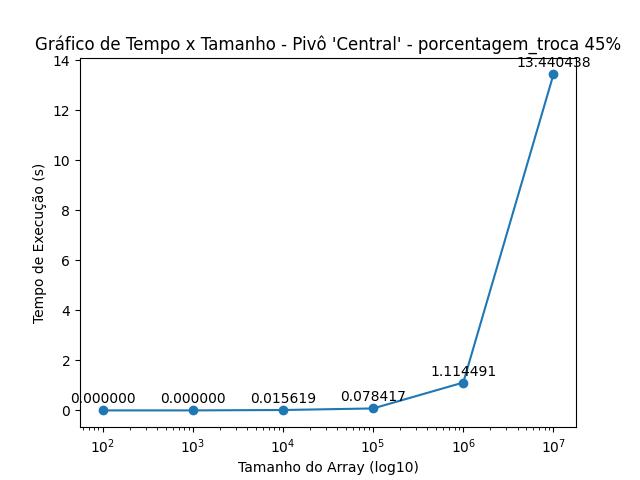
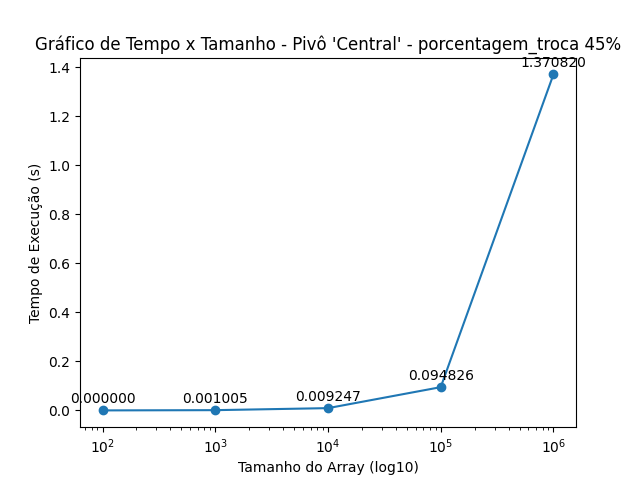
somente o mediana que esta ruim

diff --git a/QuickSort.py b/QuickSort.py
@@ -9,7 +9,10 @@ class QuickSort:
     def ordenar(self, array, metodo_pivo):
         tempo_inicio = time.time()
 
-        self.quick_sort(array, 0, len(array) - 1, metodo_pivo)
+        if(metodo_pivo == 6):
+            self.quick_sort_acha_pivo(array, 0, len(array) - 1)
+        else:
+            self.quick_sort(array, 0, len(array) - 1, metodo_pivo)
 
         tempo_fim = time.time()
         self.time = tempo_fim - tempo_inicio
@@ -37,11 +40,29 @@ class QuickSort:
 
         # 5 – Pivô mediana
         elif metodo_pivo == 5:
-            return self.median_of_medians(A, (inicio + fim) // 2)
+            p  = self.median_of_medians(A, (inicio + fim) // 2)
+            return p
             
 
-        elif metodo_pivo == 6:
-            return A[self.metodo_acha_pivout(A, inicio, fim)]
+    # Function to perform quicksort
+    def quick_sort(self, A, start, end, metodo_pivo):
+        if start < end:
+            # p is pivot, it is now at its correct position
+            p = self.partition(A, start, end, metodo_pivo)
+            self.quick_sort(A, start, p, metodo_pivo)  # Corrigido
+            self.quick_sort(A, p+1, end, metodo_pivo)
+
+    def quick_sort_acha_pivo(self,L, n1, n2):
+        esq = n1
+        dir = n2
+        
+        pto = self.achaPivo(n1, n2, L)
+        
+        if pto != 0:
+            p = self.particao_acha_pivo(L, n1, n2, L[pto], pto)
+            self.quick_sort_acha_pivo(L, esq, p) 
+            self.quick_sort_acha_pivo(L, p + 1, dir)
+
 
     def partition(self, A, start, end, metodo_pivo):
         i = start-1  # left pointer
@@ -62,62 +83,73 @@ class QuickSort:
                 return j  # stop, pivot moved to its correct position
             
             A[i], A[j] = A[j], A[i]
-
-    # Function to perform quicksort
-    def quick_sort(self, A, start, end, metodo_pivo):
-        if start < end:
-            # p is pivot, it is now at its correct position
-            p = self.partition(A, start, end, metodo_pivo)
-            # sort elements to left and right of pivot separately
-            if(metodo_pivo == 6):
-                self.quick_sort(A, start, p-1, metodo_pivo)  # Corrigido
-                self.quick_sort(A, p+1, end, metodo_pivo)
-            else:
-                self.quick_sort(A, start, p, metodo_pivo)  # Corrigido
-                self.quick_sort(A, p+1, end, metodo_pivo)
-
-    def calcula_media(self, a, b, c):
-        return (a + b + c) // 3
-
-    def metodo_acha_pivout(self, A, inicio, fim):
-        esquerda = inicio
-        direita = fim
-        
-        pos = esquerda + 1
-        pto = -1
+    
+    def particao_acha_pivo(self, L, n1, n2, pivo, p):
+        esq = n1
+        dir = n2
         
         while True:
+            while L[esq] < pivo:
+                esq = esq + 1
+            while L[dir] > pivo:
+                dir = dir - 1
             
-            if pos > direita:
+            if esq >= dir:
+                return dir  # Retorna o novo valor de p após a partição
+
+            # Troca L[esq] e L[dir]
+            L[esq], L[dir] = L[dir], L[esq]
+
+
+    def achaPivo(self, n1, n2, L):
+        esq = n1
+        dir = n2
+        pos = esq + 1
+        pto = 0
+        
+        while True:
+            if pos > dir:
                 break
             else:
-                if A[pos] >= A[pos-1]:
-                    pos += 1
+                if L[pos] >= L[pos - 1]:
+                    pos = pos + 1
                 else:
                     pto = pos
                     break
         
+        # Retornar o ponto de inflexão encontrado
         return pto
 
+    def calcula_media(self, a, b, c):
+        return (a + b + c) // 3
+
     def median_of_medians(self, A, i):
+        while True:
+            # divide A into sublists of len 5
+            sublists = [A[j:j+5] for j in range(0, len(A), 5)]
+            
+            medians = [sorted(sublist)[len(sublist)//2] for sublist in sublists]
 
-        #divide A into sublists of len 5
-        sublists = [A[j:j+5] for j in range(0, len(A), 5)]
-        medians = [sorted(sublist)[len(sublist)//2] for sublist in sublists]
-        if len(medians) <= 5:
-            pivot = sorted(medians)[len(medians)//2]
-        else:
-            #the pivot is the median of the medians
-            pivot = self.median_of_medians(medians, len(medians)//2)
+            if not medians:
+                return A[0]  # Se não houver mais medians, retorne o primeiro elemento de A
 
-        #partitioning step
-        low = [j for j in A if j < pivot]
-        high = [j for j in A if j > pivot]
+            if len(medians) <= 5:
+                pivot = sorted(medians)[len(medians)//2]
+            else:
+                # the pivot is the median of the medians
+                pivot = self.median_of_medians(medians, len(medians)//2)
 
-        k = len(low)
-        if i < k:
-            return self.median_of_medians(low,i)
-        elif i > k:
-            return self.median_of_medians(high,i-k-1)
-        else: #pivot = k
-            return pivot
+            # partitioning step
+            low = [j for j in A if j < pivot]
+            high = [j for j in A if j > pivot]
+
+            k = len(low)
+            m = A.count(pivot)
+
+            if i < k:
+                A = low
+            elif i < k + m:
+                return pivot
+            else:
+                A = high
+                i -= k + m

diff --git a/mediana.py b/mediana.py
@@ -1,0 +1,76 @@
+import random
+tamanho_array = int(1e4)
+
+lista_aleatoria = list(range(tamanho_array))
+antiga = lista_aleatoria.copy()
+
+def trocar_porcentagem(array, porcentagem):
+    if porcentagem < 0 or porcentagem > 100:
+        raise ValueError("A porcentagem deve estar entre 0 e 100.")
+
+    n = len(array)
+    num_trocas = int(n * porcentagem / 100)
+
+    for _ in range(num_trocas):
+        index_a, index_b = random.sample(range(n), 2)
+        array[index_a], array[index_b] = array[index_b], array[index_a]
+
+trocar_porcentagem(lista_aleatoria, 50)
+
+def particao_mediana(L, n1, n2, pivo):
+    esq = n1
+    dir = n2
+    
+    while True:
+        while L[esq] < pivo:
+            esq = esq + 1
+        while L[dir] > pivo:
+            dir = dir - 1
+        
+        if esq >= dir:
+            return dir  # Retorna o novo valor de p após a partição
+
+        # Troca L[esq] e L[dir]
+        L[esq], L[dir] = L[dir], L[esq]
+
+# Função para realizar o quicksort
+def quick_sort_mediana(L, n1, n2):
+    if n1 < n2:
+        pto = median_of_medians(L, (n1 + n2) // 2)
+        p = particao_mediana(L, n1, n2, pto)
+        quick_sort_mediana(L, n1, p) 
+        quick_sort_mediana(L, p + 1, n2)
+
+def median_of_medians(A, i):
+    while True:
+        # divide A into sublists of len 5
+        sublists = [A[j:j+5] for j in range(0, len(A), 5)]
+        
+        medians = [sorted(sublist)[len(sublist)//2] for sublist in sublists]
+
+        if not medians:
+            return A[0]  # Se não houver mais medians, retorne o primeiro elemento de A
+
+        if len(medians) <= 5:
+            pivot = sorted(medians)[len(medians)//2]
+        else:
+            # the pivot is the median of the medians
+            pivot = median_of_medians(medians, len(medians)//2)
+
+        # partitioning step
+        low = [j for j in A if j < pivot]
+        high = [j for j in A if j > pivot]
+
+        k = len(low)
+        m = A.count(pivot)
+
+        if i < k:
+            A = low
+        elif i < k + m:
+            return pivot
+        else:
+            A = high
+            i -= k + m
+
+quick_sort_mediana(lista_aleatoria, 0, len(lista_aleatoria) - 1)
+print(lista_aleatoria)

diff --git a/log.py b/log.py
@@ -1,0 +1,39 @@
+import json
+import time
+
+def salvar_parametros_em_json(pivo, porcentagem, duracao, tamanho, hora_inicio, hora_termino, nome_arquivo):
+    # Tenta ler os dados existentes do arquivo, se o arquivo existir
+    try:
+        with open(nome_arquivo, 'r') as arquivo_existente:
+            dados_existentes = json.load(arquivo_existente)
+    except FileNotFoundError:
+        dados_existentes = {}
+
+    # Adiciona os novos dados aos dados existentes
+    dados_existentes.update({
+        "PIVO": pivo,
+        "PORCENTAGEM": porcentagem,
+        "DURACAO": duracao,
+        "TAMANHO": tamanho,
+        "HORA_INICIO": hora_inicio,
+        "HORA_TERMINO": hora_termino
+    })
+
+    # Escreve os dados atualizados de volta para o arquivo
+    with open(nome_arquivo, 'w') as arquivo_json:
+        json.dump(dados_existentes, arquivo_json, indent=2)
+    
+
+# Exemplo de uso
+pivo = 42
+porcentagem = 0.75
+duracao = 10
+tamanho = 100
+hora_inicio = time.strftime("%H:%M:%S")  # Hora atual no formato HH:MM:SS
+# Simulando uma hora de término 1 hora depois da hora de início
+hora_termino = (time.strptime(hora_inicio, "%H:%M:%S").tm_hour + 1) % 24
+hora_termino = time.strftime("%H:%M:%S", time.strptime(str(hora_termino), "%H"))
+
+nome_arquivo = "parametros.json"
+
+salvar_parametros_em_json(pivo, porcentagem, duracao, tamanho, hora_inicio, hora_termino, nome_arquivo)

diff --git a/main.py b/main.py
@@ -17,7 +17,6 @@ def trocar_porcentagem(array, porcentagem):
         index_a, index_b = random.sample(range(n), 2)
         array[index_a], array[index_b] = array[index_b], array[index_a]
 
-
 def plotar_e_salvar_grafico(tempo, tamanho, titulo, nome_arquivo):
     # Verifica se as listas têm o mesmo tamanho
     if len(tempo) != len(tamanho):
@@ -45,7 +44,6 @@ def plotar_e_salvar_grafico(tempo, tamanho, titulo, nome_arquivo):
     # Salva a figura na pasta 'grafico'
     caminho_arquivo = os.path.join('grafico', nome_arquivo)
     plt.savefig(caminho_arquivo)
-
 
 tamanhos_array = [int(1e2), int(1e3), int(1e4), int(1e5), int(1e6), int(1e7), int(1e8), int(1e9)]
 porcentagens_troca = [5, 25, 45]
@@ -84,7 +82,7 @@ if __name__ == "__main__":
                 # Exibindo o resultado
                 print(
                        f"\nPivô '{metodos_pivo_nome[metodo_pivo-1]}', tamanho_array {tamanho_array}, tempo {quick_sort.time}\n\n")
-
+                # print(lista_copia)
                 tamanhos_na_iteracao.append(tamanho_array)
                 tempo_na_iteracao.append(quick_sort.time)
 
